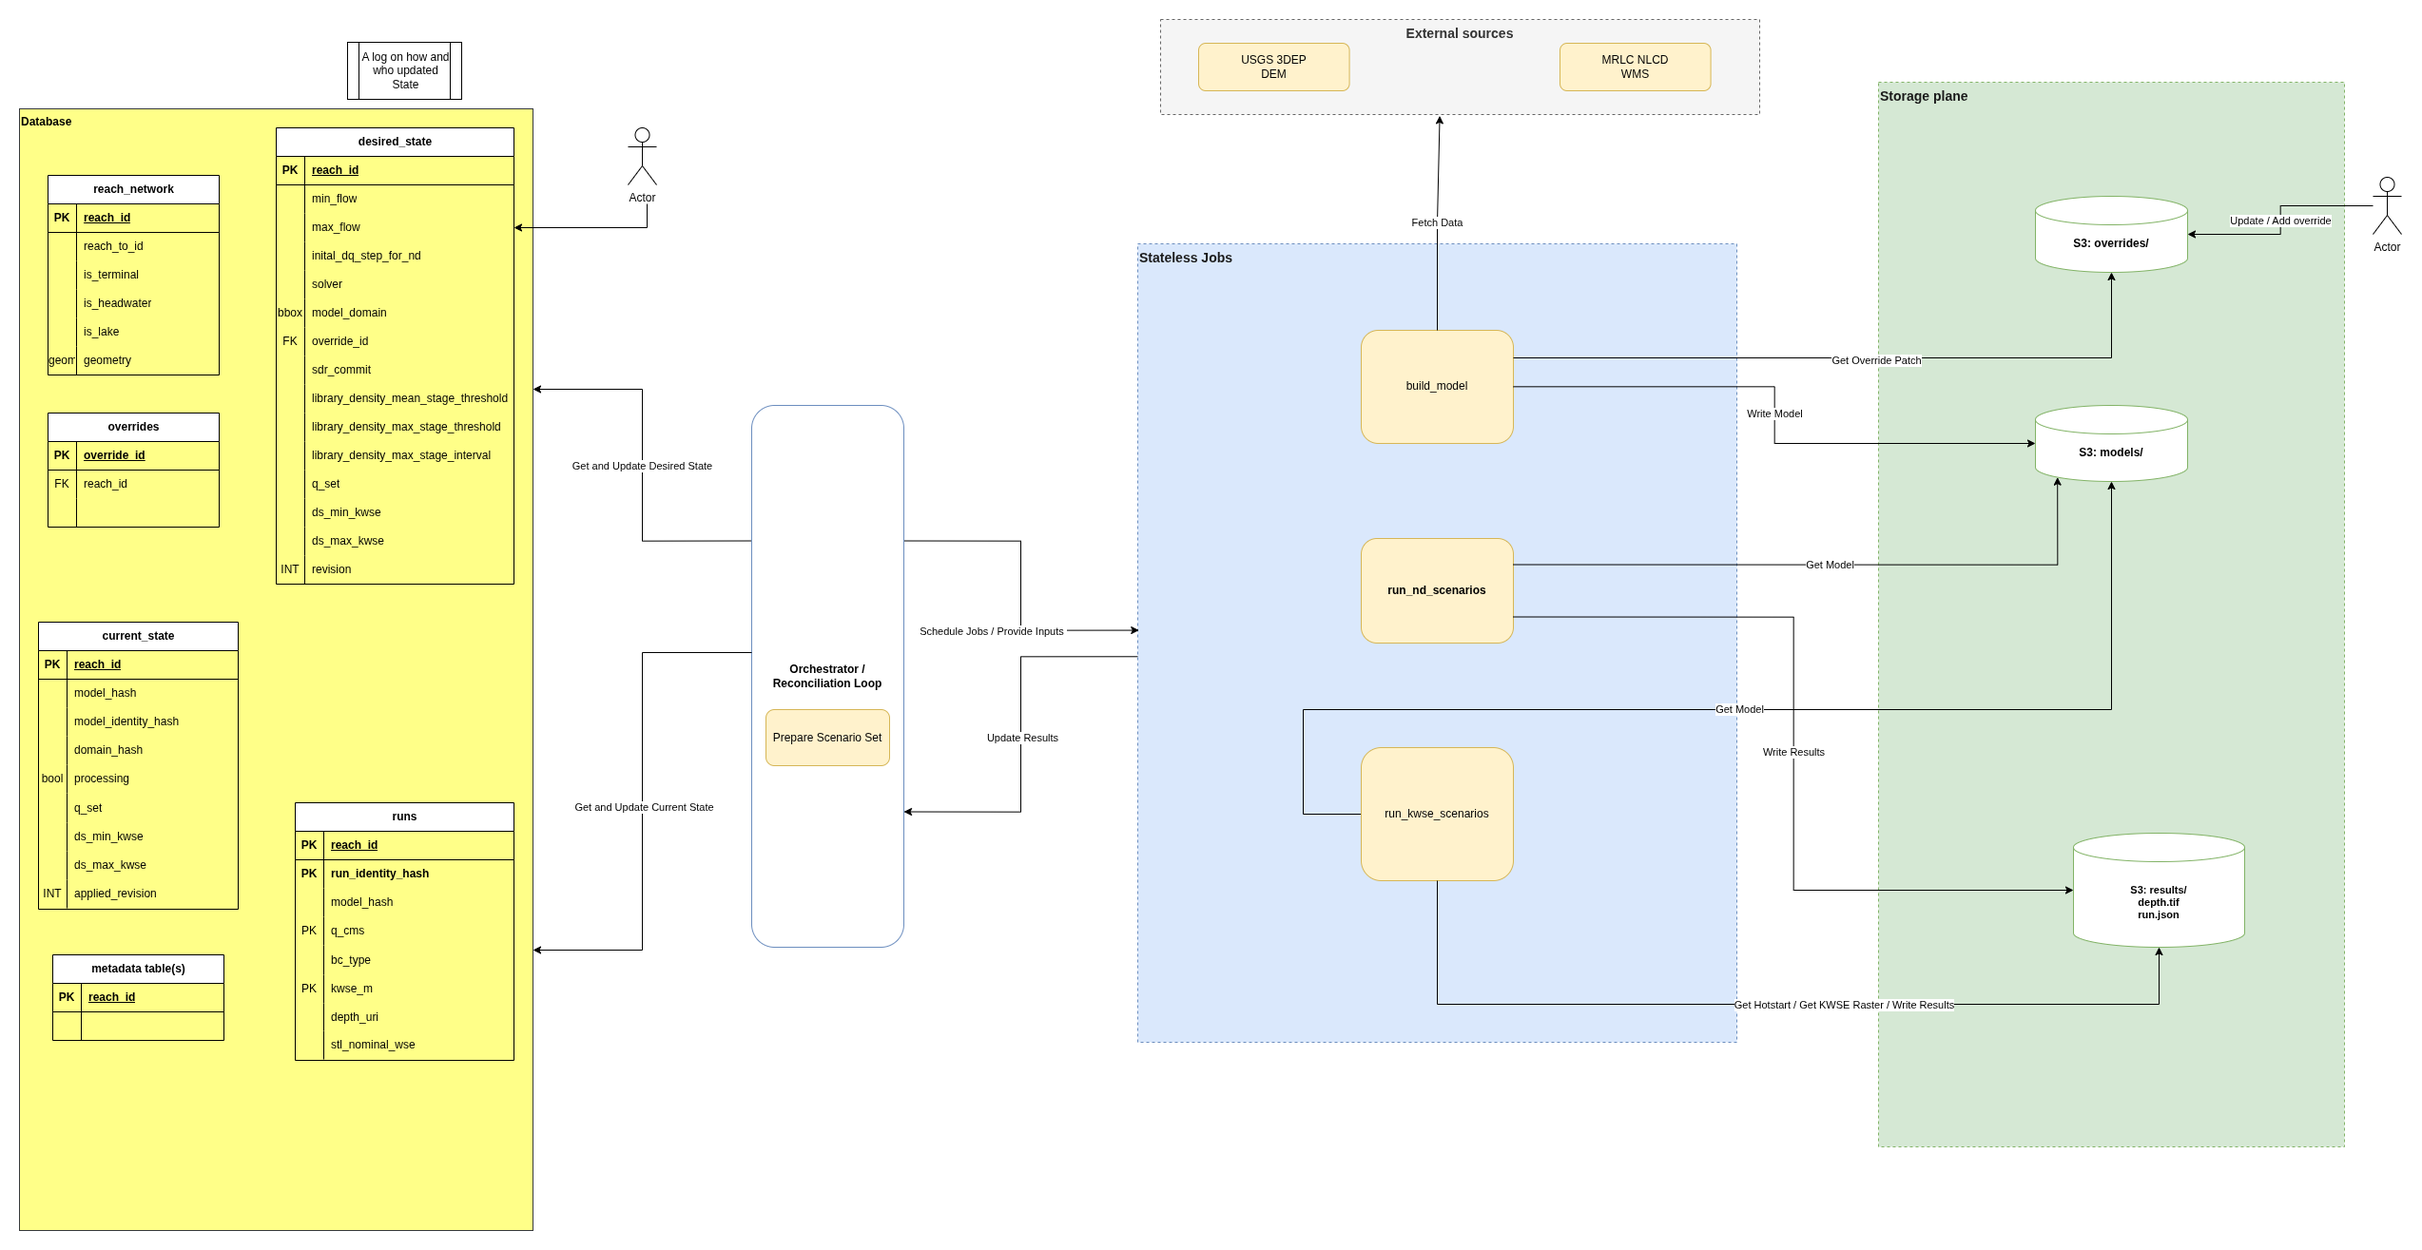
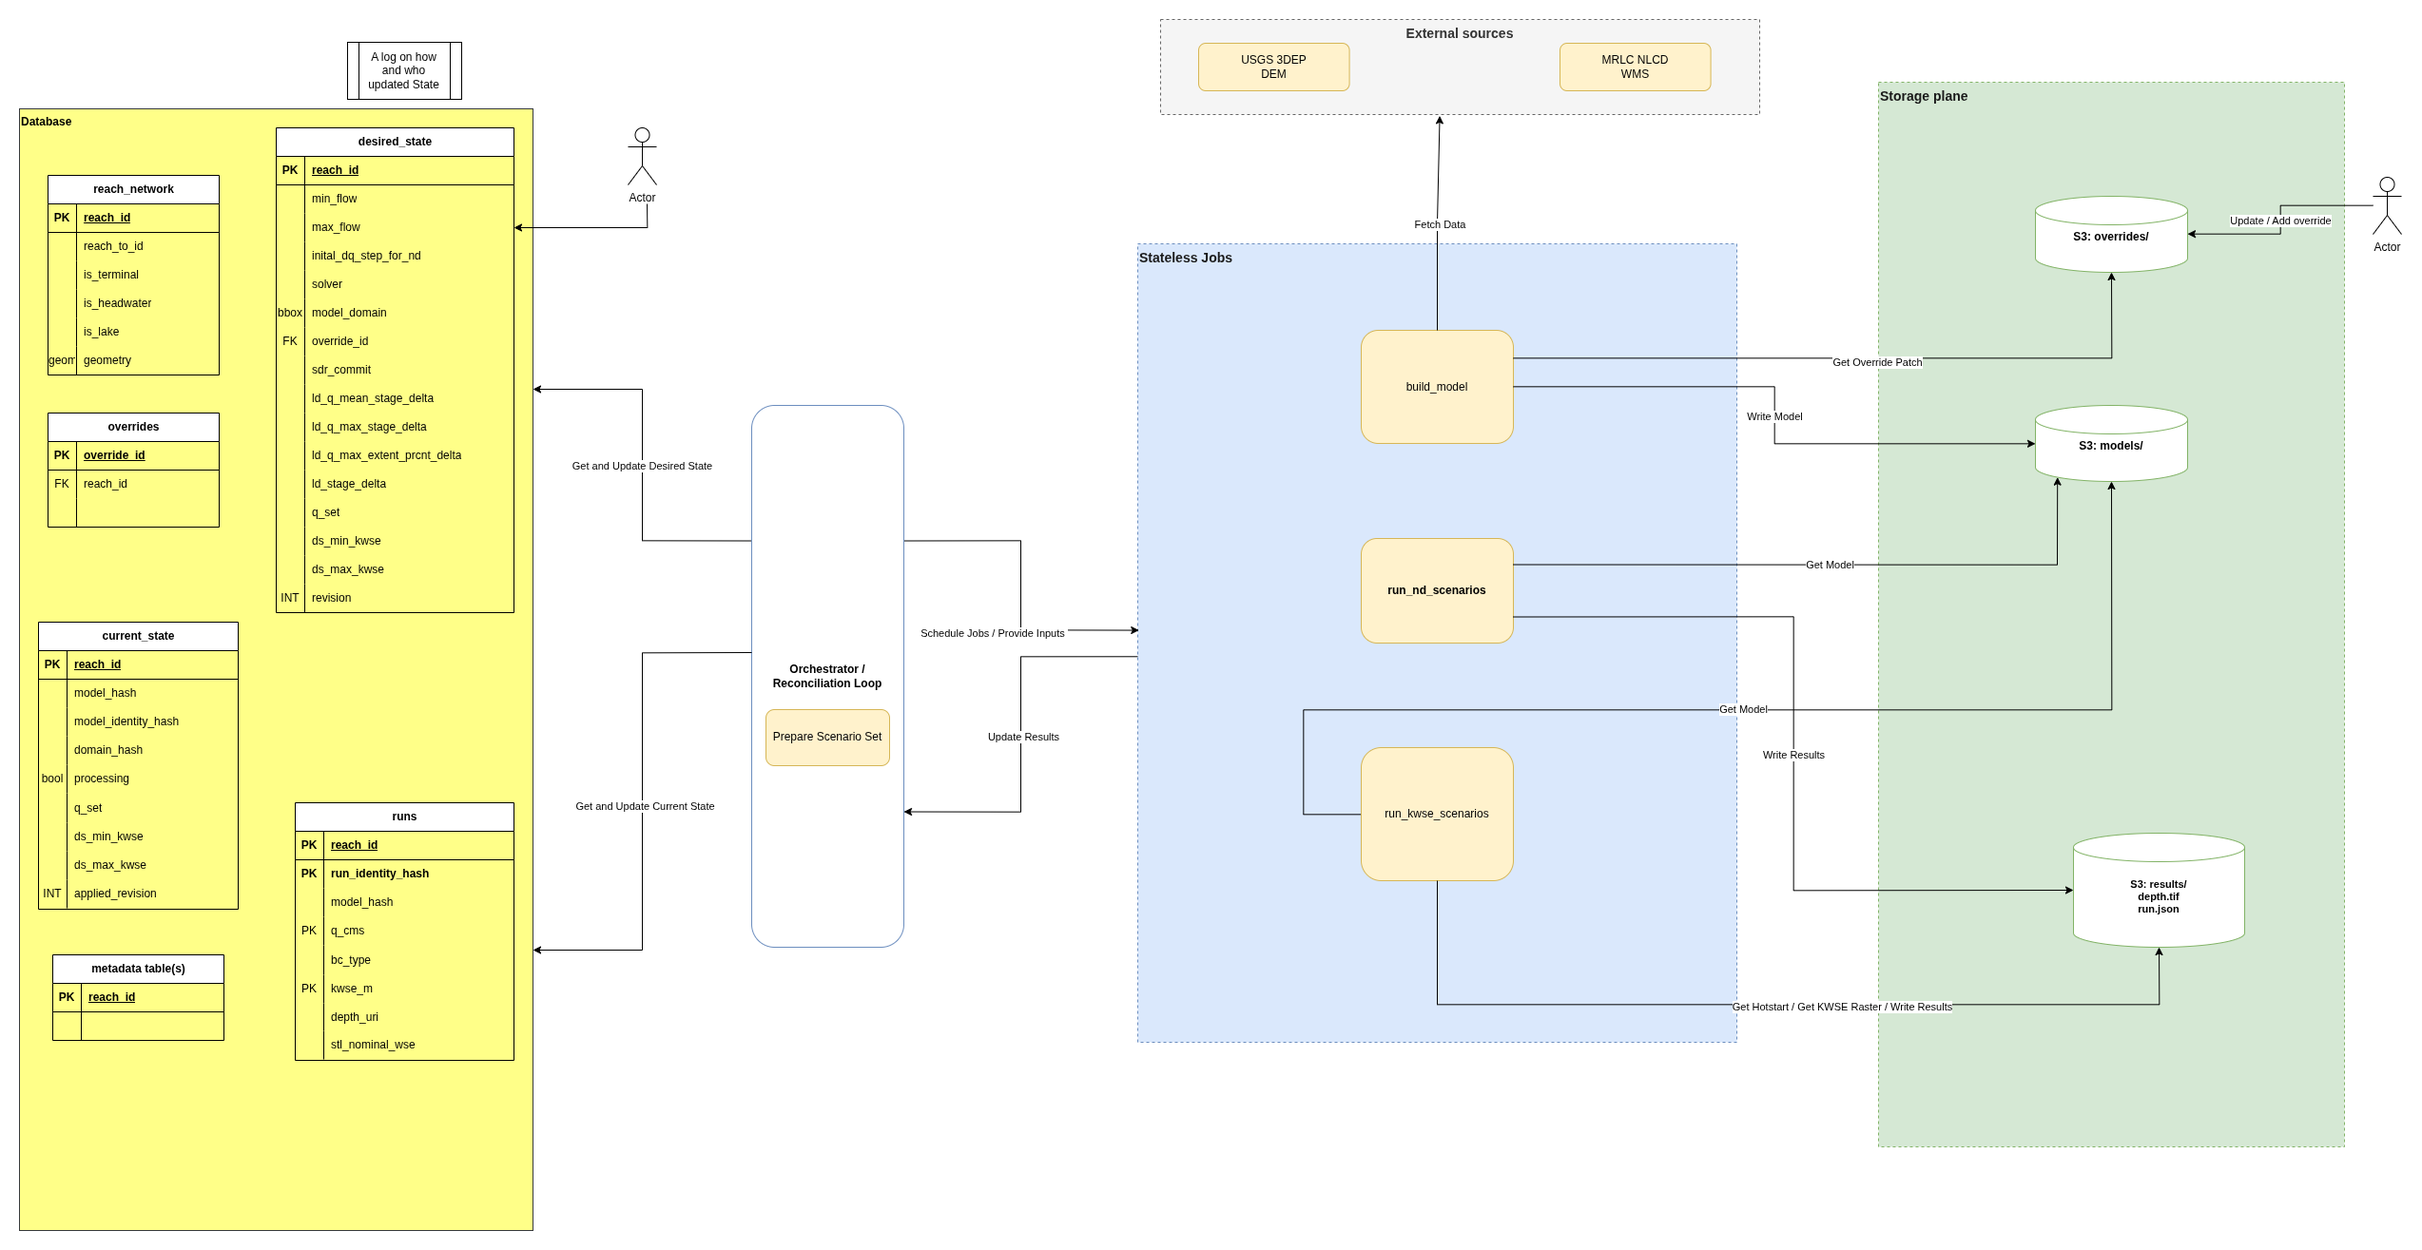
Minor Revisions and 1 STL per Run

diff --git a/system-decision-record/02_Decisions/DR-030 - How to Determine Library Discharges for Each Reach.md b/system-decision-record/02_Decisions/DR-030 - How to Determine Library Discharges for Each Reach.md
@@ -4,16 +4,16 @@ After establishing discharge bounds (see [[DR-029 - What Should be the Lower and
 ## Alternatives
 
 ### ALT-A - Linearly Spaced Discharges
-Divide the range (Q_min, Q_max) into equal discharge increments. Simple, deterministic, and low chance of implementation bugs. Naturally scales across river sizes without reach-specific tuning. Given that discharges range over orders of magnitude, intervals in raw cubic meters per second may oversample the low end (see Alt B for fix). A post-processing step may be applied after the initial library runs to identify hydraulic transitions that were not captured and insert additional discharges in those intervals. No initial runs required, which provides a costs savings.
+Divide the range (Q_min, Q_max) into equal discharge increments. Simple, deterministic, and low chance of implementation bugs. Naturally scales across river sizes without reach-specific tuning. Given that discharges range over orders of magnitude, intervals in raw cubic meters per second may oversample the low end (see Alt B for fix). A post-processing step may be applied after the initial library runs to identify hydraulic transitions that were not captured and insert additional discharges in those intervals. No initial runs required, which provides a cost savings.
 
 ### ALT-B - Log-Spaced Discharges
-Divide the range (Q_min, Q_max) into equal increments in log space. Given that many river discharge scale exponentially, provides a more balanced flow set. Shares the robustness and simplicity of ALT-A. The number of increments is an operator-controlled cost parameter. A post-processing step may be applied after the initial library runs to identify hydraulic transitions that were not captured and insert additional discharges in those intervals. No initial runs required, which provides a costs savings.
+Divide the range (Q_min, Q_max) into equal increments in log space. Given that many river discharge scale exponentially, provides a more balanced flow set. Shares the robustness and simplicity of ALT-A. The number of increments is an operator-controlled cost parameter. A post-processing step may be applied after the initial library runs to identify hydraulic transitions that were not captured and insert additional discharges in those intervals. No initial runs required, which provides a cost savings.
 
 
 ### ALT-C - Adaptive Discharge Stepping Based on Hydraulic Response
 #current
 
-We want to estabish our Qs by walking the reach's actual response curve, so that we are able to have a library that is representative of most reach conditions. We could do this by modeling reach starting with lowest flow that we want to model, and then sampling, across fixed set of monitoring points, whenever certain threshold is crossed in comparison to last sampling (for example, stage increased by 1m). This would give us dense sampling at hydraulic transitions (overtopping, levee breach, floodplain spillover) and sparse sampling where consecutive maps would look near identical.
+We want to establish our Qs by walking the reach's actual response curve, so that we are able to have a library that is representative of most reach conditions. We could do this by modeling reach starting with lowest flow that we want to model, and then sampling, across fixed set of monitoring points, whenever certain threshold is crossed in comparison to last sampling (for example, stage increased by 1m). This would give us dense sampling at hydraulic transitions (overtopping, levee breach, floodplain spillover) and sparse sampling where consecutive maps would look near identical.
 
 
 > Following video and content is generated by AI
@@ -37,11 +37,11 @@ The actual threshold for these values will be configurable per reach.
 
 _* video has this incorrect_
 
-4. Combine the above three to create a combined criteria
+5. Combine the above three to create a combined criteria
     - any criterion **above** band → `reject_high`: keep q_current, shrink Δq, retry
     - else any criterion **in** band → **`accept`**: snapshot, advance q_current to trial, grow Δq slightly
     - else (all three below band) → `reject_low`: advance q_current to trial, grow Δq
-5. Stop when `q_current` reaches the reach's max discharge of interest.
+6. Stop when `q_current` reaches the reach's max discharge of interest.
 
 Two state variables evolve independently:
 
@@ -62,7 +62,7 @@ This separation means the band measures _cumulative_ change since the last libra
  - Method for dq determination is under-developed. If a fixed value is used, are the resulting discharges substantially better in a way that justifies the added complexity relative to alternative A or B.
  - Strictly sequential hot-starts eliminate parallelism—each run must complete before the next is proposed.
  - Adds another step to the production pipeline, increasing pipeline complexity and computational cost.
- - Strong safegaurds will be necessary to prevent runaway iterations.
+ - Strong safeguards will be necessary to prevent runaway iterations.
  - The approach does not guarantee higher fidelity through floodplain spillover in all reaches. That transition depends on downstream boundary conditions which are absent from this normal depth analysis.
 
 ## Decision History

diff --git a/system-decision-record/02_Decisions/Decision Register.md b/system-decision-record/02_Decisions/Decision Register.md
@@ -39,11 +39,11 @@ Status meanings:
 | [[DR-023 - How to Deal with Short Reaches]] | [[DR-023 - How to Deal with Short Reaches#ALT-B - Merge Continuous Reaches that have Negligible Drainage Area Difference Up to Some River Mile Length\|ALT-B - Merge Continuous Reaches that have Negligible Drainage Area Difference Up to Some River Mile Length]] | Alternate Selected | 2026-01-30 | |
 | [[DR-024 - What Should be Thresholds for Merging Short Reaches]] | [[DR-024 - What Should be Thresholds for Merging Short Reaches#ALT-A - 5% Drainage Area Difference, Upto 3 miles, Stream Order 3 or up\|ALT-A - 5% Drainage Area Difference, Upto 3 miles, Stream Order 3 or up]] | Alternate Selected | 2026-02-09 | |
 | [[DR-025 - What Should be the Geometry of STL]] | [[DR-025 - What Should be the Geometry of STL#ALT-B - WSEL Contour From D/S FIM\|ALT-B - WSEL Contour From D/S FIM]] | Alternate Selected | 2025-02-09 | |
-| [[DR-026 - Should There be 1 STL per Reach or 1 STL per Reach per RUN]] | [[DR-026 - Should There be 1 STL per Reach or 1 STL per Reach per RUN#ALT-A - 1 STL Per Reach From Largest Model Run\|ALT-A - 1 STL Per Reach From Largest Model Run]] | Alternate Selected | 2026-02-09 | |
+| [[DR-026 - Should There be 1 STL per Reach or 1 STL per Reach per RUN]] | [[DR-026 - Should There be 1 STL per Reach or 1 STL per Reach per RUN#ALT-B - STL Derived Separately during each run\|ALT-B - STL Derived Separately during each run]] | Alternate Selected | 2026-06-01 | |
 | [[DR-027 - How do Deal with Flat Reaches]] | [[DR-027 - How do Deal with Flat Reaches#ALT-A - Do Nothing\|ALT-A - Do Nothing]] | Alternate Selected | 2026-02-09 | |
 | [[DR-028 - What Value Should be Used to Determine Volume Convergence]] | [[DR-028 - What Value Should be Used to Determine Volume Convergence#ALT-A - 1e-3\|ALT-A - 1e-3]] | Alternate Selected | 2026-04-27 | |
 | [[DR-029 - What Should be the Lower and Upper Discharge Bounds for Each Reach]] | [[DR-029 - What Should be the Lower and Upper Discharge Bounds for Each Reach#ALT-A - Fixed Recurrence Interval Bounds from NWM Retrospective\|ALT-A - Fixed Recurrence Interval Bounds from NWM Retrospective]] | Alternate Selected | 2026-06-01 | |
 | [[DR-030 - How to Determine Library Discharges for Each Reach]] | [[DR-030 - How to Determine Library Discharges for Each Reach#ALT-C - Adaptive Discharge Stepping Based on Hydraulic Response\|ALT-C - Adaptive Discharge Stepping Based on Hydraulic Response]] | Alternate Selected | 2026-06-01 | |
 | [[DR-031 - Should Downstream Stage be Uniform or Cell-Specific Along the STL]] | [[DR-031 - Should Downstream Stage be Uniform or Cell-Specific Along the STL#ALT-B - Cell-by-Cell Stage Transfer from Downstream Reach Simulation\|ALT-B - Cell-by-Cell Stage Transfer from Downstream Reach Simulation]] | Alternate Selected | 2026-06-01 | |
-| [[DR-033 - How to Determine Library KWSEs for Each Reach]] | [[DR-033 - How to Determine Library KWSEs for Each Reach#ALT-C - Reach-Adaptive Delta Elevation Based on Stream Order or Drainage Area\|ALT-C - Reach-Adaptive Delta Elevation Based on Stream Order or Drainage Area]] | Alternate Selected | 2026-06-01 | |
-| [[DR-032 - What Should be the Lower and Upper KWSE Bound for Each Reach for Each Discharge]] | [[DR-032 - What Should be the Lower and Upper KWSE Bound for Each Reach for Each Discharge#ALT-A - Full Cross-Product of Selected Discharges and Downstream Conditions\|ALT-A - Full Cross-Product of Selected Discharges and Downstream Conditions]] | Alternate Selected | 2026-06-01 | |
+| [[DR-032 - What Should be the Lower and Upper KWSE Bound for Each Reach for Each Discharge]] | [[DR-032 - What Should be the Lower and Upper KWSE Bound for Each Reach for Each Discharge#ALT-A - Same as D/S Reach Max and Min STL WSEL Floored by Reach's Normal Depth WSEL at STL\|ALT-A - Same as D/S Reach Max and Min STL WSEL Floored by Reach's Normal Depth WSEL at STL]] | Alternate Selected | 2026-06-01 | |
+| [[DR-033 - How to Determine Library KWSEs for Each Reach]] | [[DR-033 - How to Determine Library KWSEs for Each Reach#ALT-B - Snap to a Per-Reach Standard Stage Grid\|ALT-B - Snap to a Per-Reach Standard Stage Grid]] | Alternate Selected | 2026-06-01 | |

diff --git a/system-decision-record/02_Decisions/DR-032 - What Should be the Lower and Upper KWSE Bound for Each Reach for Each Discharge.md b/system-decision-record/02_Decisions/DR-032 - What Should be the Lower and Upper KWSE Bound for Each Reach for Each Discharge.md
@@ -4,7 +4,7 @@
 
 This DR establish what should be range of upper and lower bounds for KWSEs.
 
-Two analyses were perfomed to supplement this decision.
+Two analyses were performed to supplement this decision.
 
 ---
 
@@ -61,16 +61,16 @@ In high-gradient, normal-depth-controlled reaches, extensive downstream conditio
 ### ALT-A - Same as D/S Reach Max and Min STL WSEL Floored by Reach's Normal Depth WSEL at STL
 #current
 
-For every reach's every discharge we model it with full range of D/S Reach U/S WSEL range, but we don't model any KWSE that is lower than the Reach's 
+For every reach's every discharge we model it with full range of D/S Reach U/S WSEL range, but we don't model any KWSE that is lower than the reach's normal depth WSEL at the STL.
 
-Straightforward to implement, test, and explain. . Eliminates the risk of omitting a physically important combination due to a flawed sampling model.
+Straightforward to implement, test, and explain. Eliminates the risk of omitting a physically important combination due to a flawed sampling model.
 
 ### ALT-B - Joint Probability Sampling
 Model the joint recurrence-interval distribution of upstream discharge and downstream stage. Sample more densely in high-probability regions and sparsely in low-probability regions. For large rivers with strongly correlated adjacent reaches, this would substantially reduce run count or concentrate fidelity in physically likely conditions. However, constructing a reliable joint distribution at CONUS scale introduces significant complexity and additional failure modes. A brute-force cross-product is preferred for now.
 
 ### ALT-C - Suppress Downstream Variation Where Backwater is Negligible
 
-This belongs in DR-001
+*This belongs in DR-001*
 
 Identify reaches where upstream water surface elevation is insensitive to downstream stage at a given discharge (i.e., normal-depth-controlled or near-critical flow). For those reaches, simulate only a single downstream condition per discharge. This could reduce library size substantially for high-gradient reaches. Identification could use static reach attributes (slope, Froude estimates) or response curves from an initial set of runs. Analysis of Ripple1D rating curve data confirms that this behavior exists and is reach-dependent, but the identification logic adds complexity. Defaulting to ALT-A; this alternative remains viable if targeted cost reduction is required.
 

diff --git a/system-decision-record/02_Decisions/DR-033 - How to Determine Library KWSEs for Each Reach.md b/system-decision-record/02_Decisions/DR-033 - How to Determine Library KWSEs for Each Reach.md
@@ -1,5 +1,5 @@
 ## Description
-Per [[DR-031 - Should Downstream Stage be Uniform or Cell-Specific Along the STL]], downstream boundary conditions are drawn from completed downstream reach simulations. Per [[DR-032 - What Should be the Lower and Upper KWSE Bound for Each Reach for Each Discharge]] we will have a range of for d/s KWSE to work with, but within that range multiple simulations will exist producing many KWSEs. Each such simulation is attributed a nominal water surface elevation. 
+Per [[DR-031 - Should Downstream Stage be Uniform or Cell-Specific Along the STL]], downstream boundary conditions are drawn from completed downstream reach simulations. Per [[DR-032 - What Should be the Lower and Upper KWSE Bound for Each Reach for Each Discharge]] we will have a range for d/s KWSE to work with, but within that range multiple simulations will exist producing many KWSEs. Each such simulation is attributed a nominal water surface elevation. 
 
 This decision addresses how to select the library values of downstream KWSEs to use as KWSE set for the current reach, so that the resulting library spans a useful range of downstream conditions without a large number of runs.
 
@@ -14,8 +14,17 @@ ds_interval = len(ds_scenarios) // ds_resolution
 ds_space = ds_scenarios[::ds_interval]
 ```
 
-### ALT-B - Delta Value Rounded to Nearest Value
+### ALT-B - Snap to a Per-Reach Standard Stage Grid
 #current
+
+Each reach picks a stage increment `Δz` from the discrete menu `{0.25, 0.5, 1, 2}` m. The library grid for that reach is built by stepping up from the per-discharge lower bound (from [[DR-032 - What Should be the Lower and Upper KWSE Bound for Each Reach for Each Discharge]]) rounded up to nearest `Δz` in increments of `Δz`, until the upper bound.
+
+Examples for d/s WSEL range `224 → 227.1`:
+- `Δz = 0.25` → `224, 224.25, 224.5, …, 226.5, 226.75, 227`
+- `Δz = 1` → `224, 225, 226, 227`
+- `Δz = 2` → `224, 226, 228`
+
+Each grid stage is bound to the downstream simulation whose nominal stage is nearest, provided it is within `Δz/2`; that run's WSE raster is imposed on the STL (see [[DR-031 - Should Downstream Stage be Uniform or Cell-Specific Along the STL]]). Targets with no downstream run inside `Δz/2` are skipped as gaps in the downstream reach's own sampling.
 
 ### ALT-C - Reach-Adaptive Delta Elevation Based on Stream Order or Drainage Area
 

diff --git a/system-decision-record/02_Decisions/DR-026 - Should There be 1 STL per Reach or 1 STL per Reach per Run.md b/system-decision-record/02_Decisions/DR-026 - Should There be 1 STL per Reach or 1 STL per Reach per Run.md
@@ -2,13 +2,16 @@
 Define what stage transfer line (STL) will be used for different runs of an upstream model.
 ## Alternatives
 ### ALT-A - 1 STL Per Reach From Largest Model Run
-#current 
+
 The same STL, derived from largest run, will be used across all KWSE runs.
 
 Temp image showing that 1 STL for all runs mean the shape of STL is not perpendicular when d/s reach is not flowing at maximum discharge.
 ![[DR-026 - FIG-001.png]]
-### ALT-B - STL Derived Separately during each run
+### ALT-B - STL Derived Separately For Each Run
+#current 
+
 Regenerate STL for each run so STL geometry adapts to run specific FIM, at the cost of indexing and automation complexity.
 
 ## Decision History
 - 2026-02-09: First selection of ALT-A based on discussion among group
+- 2026-06-01: Revised to ALT-B as system design allow for that
